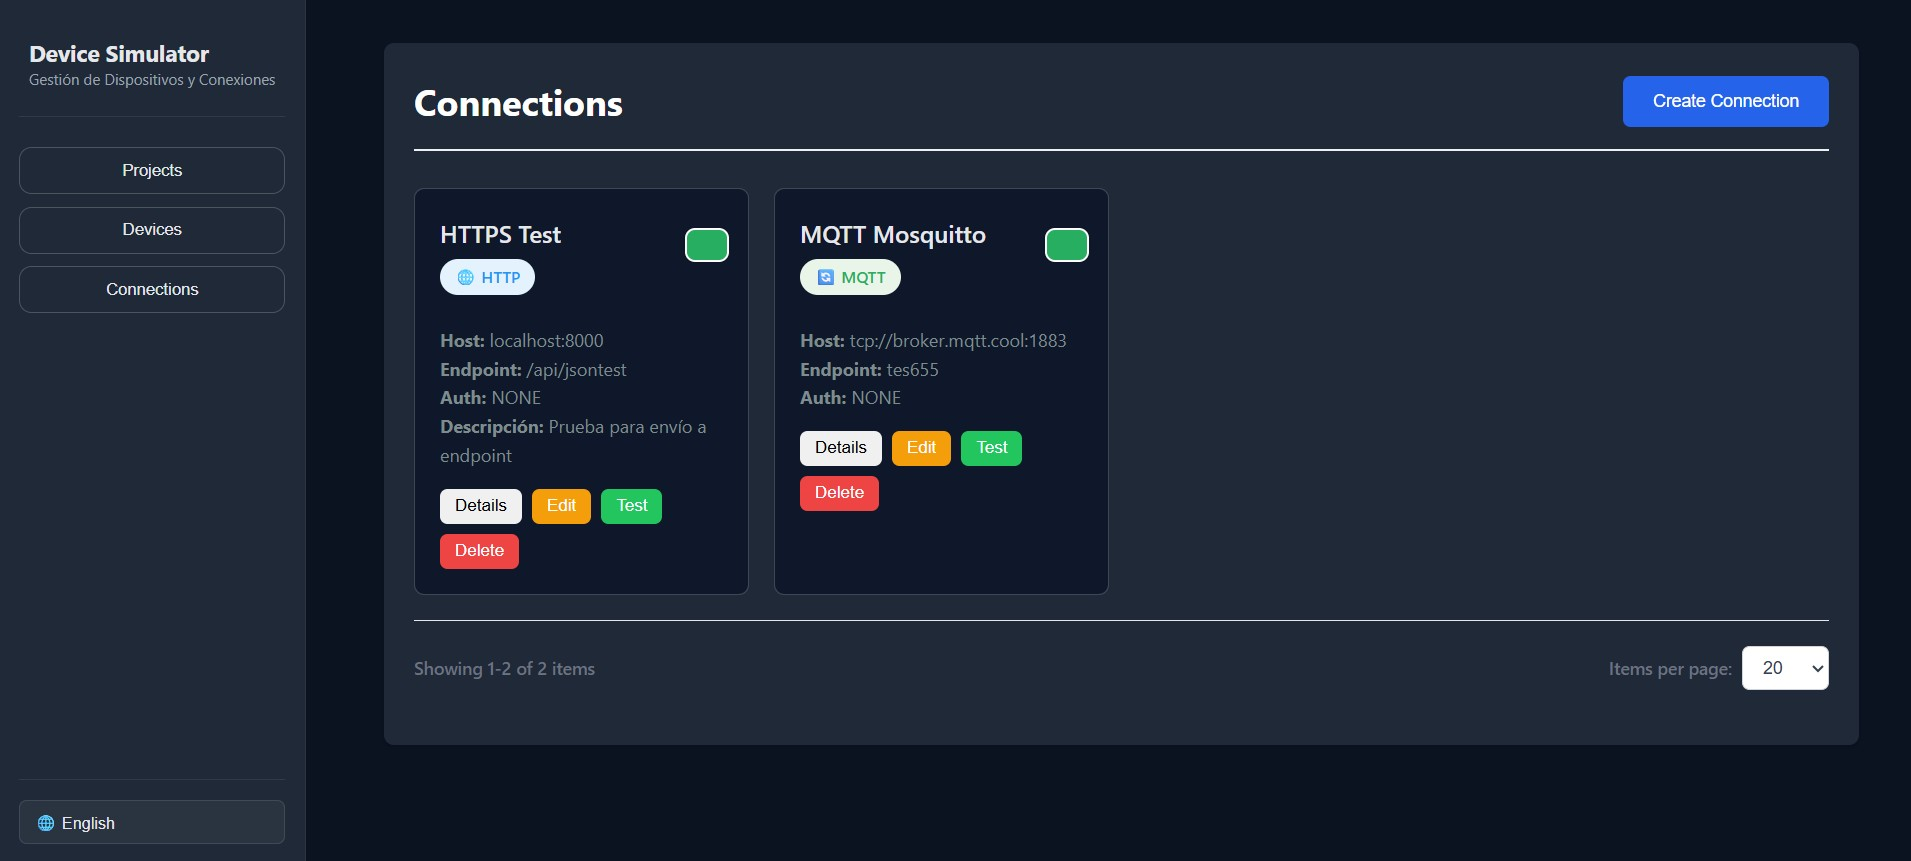
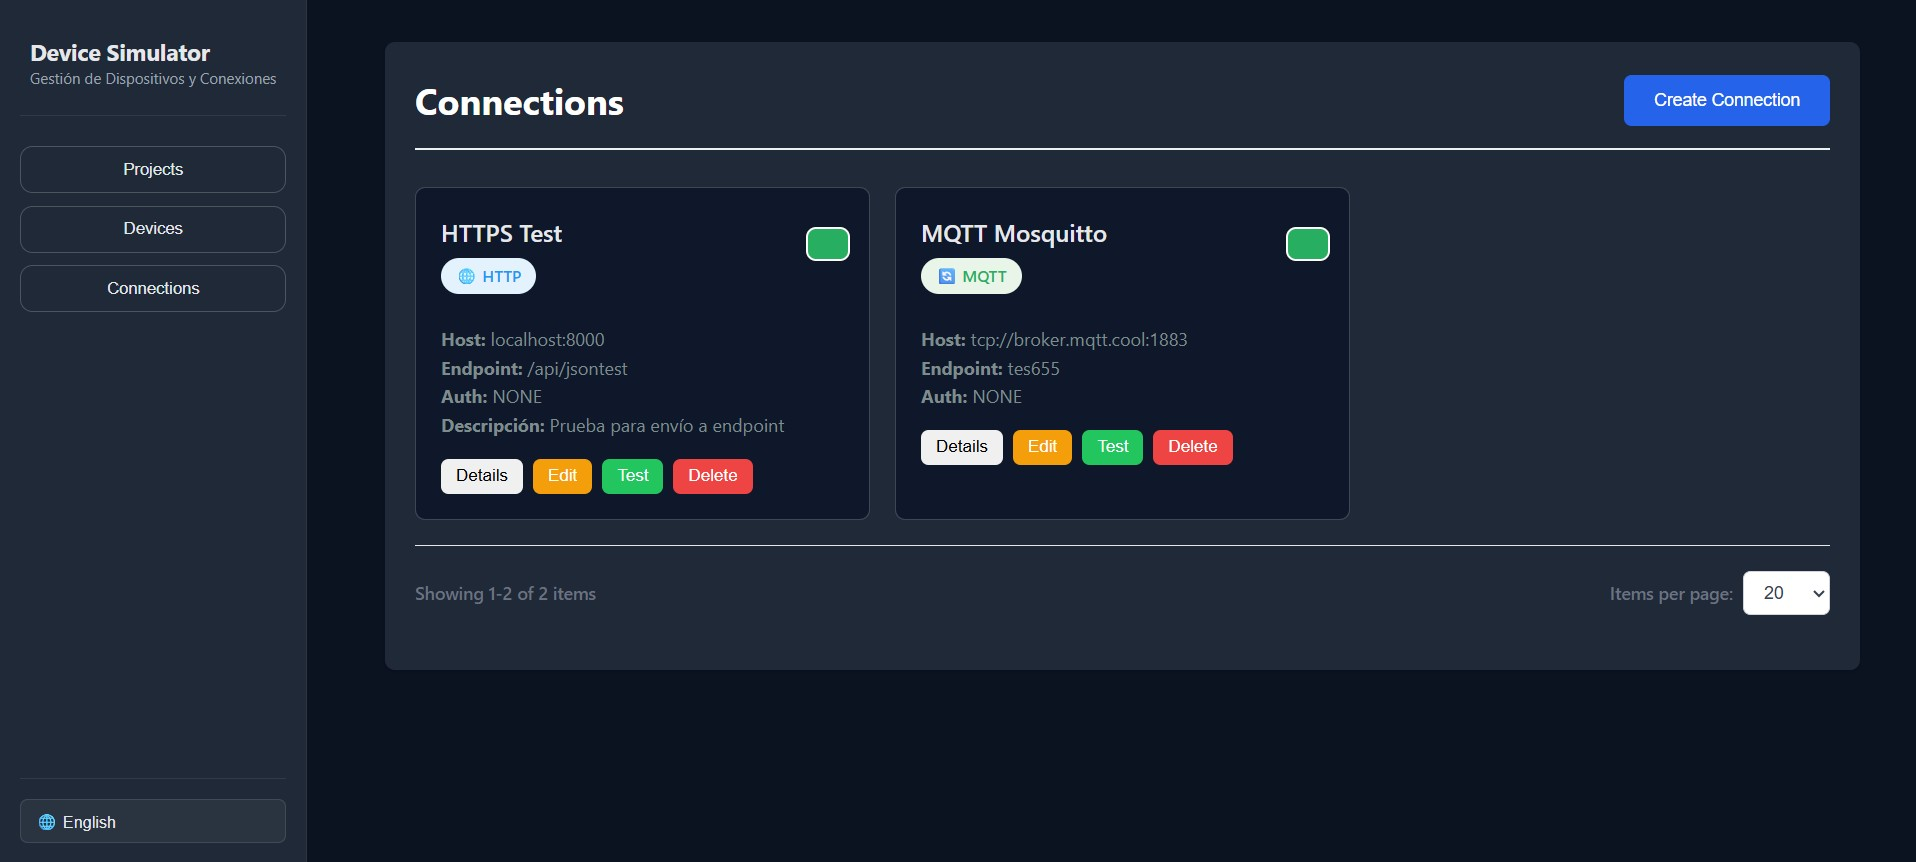
cambios en el grid de proyectos

diff --git a/frontend/static/styles.css b/frontend/static/styles.css
@@ -678,8 +678,8 @@ header p {
 .projects-grid,
 #projects-grid {
     display: grid;
-    grid-template-columns: repeat(auto-fill, minmax(300px, 1fr));
-    gap: 20px;
+    grid-template-columns: repeat(auto-fill, minmax(280px, 1fr));
+    gap: 16px;
 }
 
 .project-card {
@@ -748,6 +748,23 @@ header p {
     border-top: 1px solid var(--border);
 }
 
+/* Responsive adjustments for projects grid */
+@media (max-width: 768px) {
+    .projects-grid,
+    #projects-grid {
+        grid-template-columns: repeat(auto-fit, minmax(250px, 1fr));
+        gap: 16px;
+    }
+}
+
+@media (max-width: 480px) {
+    .projects-grid,
+    #projects-grid {
+        grid-template-columns: 1fr;
+        gap: 12px;
+    }
+}
+
 /* Formularios */
 .form {
     max-width: 500px;
@@ -775,10 +792,7 @@ header p {
 }
 
 .form-group input:focus,
-.form-group textarea:focus {
-    outline: none;
-    border-color: #3498db;
-}
+.form-group textarea:focus { border-color: #3498db; }
 
 .form-actions {
     display: flex;
@@ -939,7 +953,7 @@ header p {
 /* Estilos para Conexiones */
 .connections-grid {
     display: grid;
-    grid-template-columns: repeat(auto-fill, minmax(250px, 1fr));
+    grid-template-columns: repeat(auto-fill, minmax(350px, 1fr));
     gap: 20px;
     margin-top: 20px;
 }

diff --git a/frontend/static/script.js b/frontend/static/script.js
@@ -635,6 +635,7 @@ async function loadProjects(page = 1, perPage = 20, search = '', active = null, 
                     <p class="project-description">${project.description || 'Sin descripción'}</p>
                     <div class="project-stats">
                         <span class="device-count">📱 ${project.devices_count} dispositivos</span>
+                    </div>    
                 </div>
                 <div class="project-actions">
                     <button class="btn btn-sm btn-info" onclick="event.stopPropagation(); editProject(${project.id})">✏ ${window.i18n.t('common.actions.edit')}</button>
